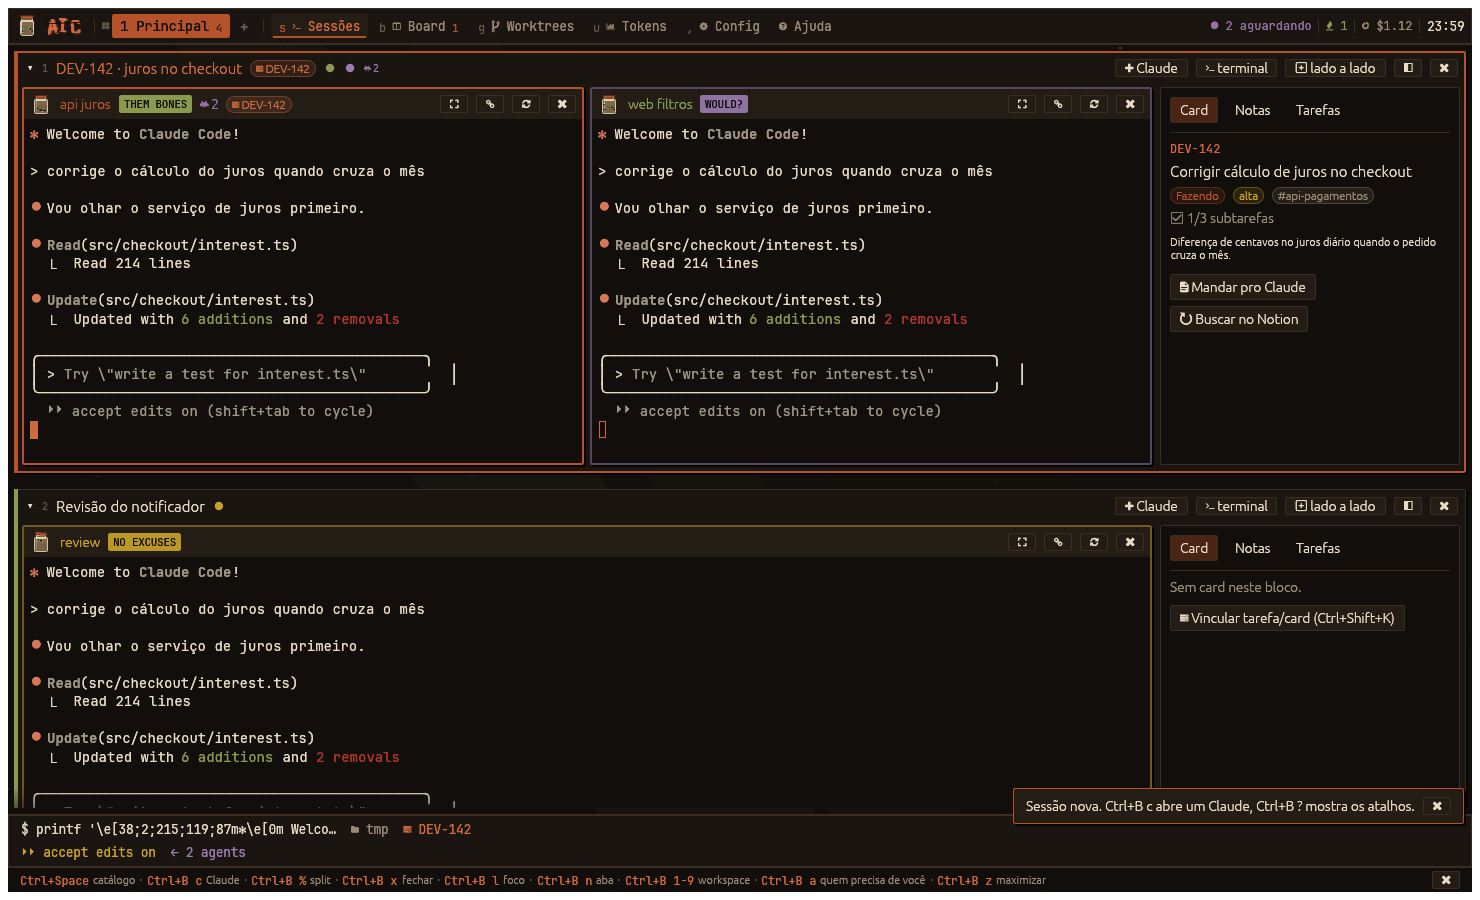
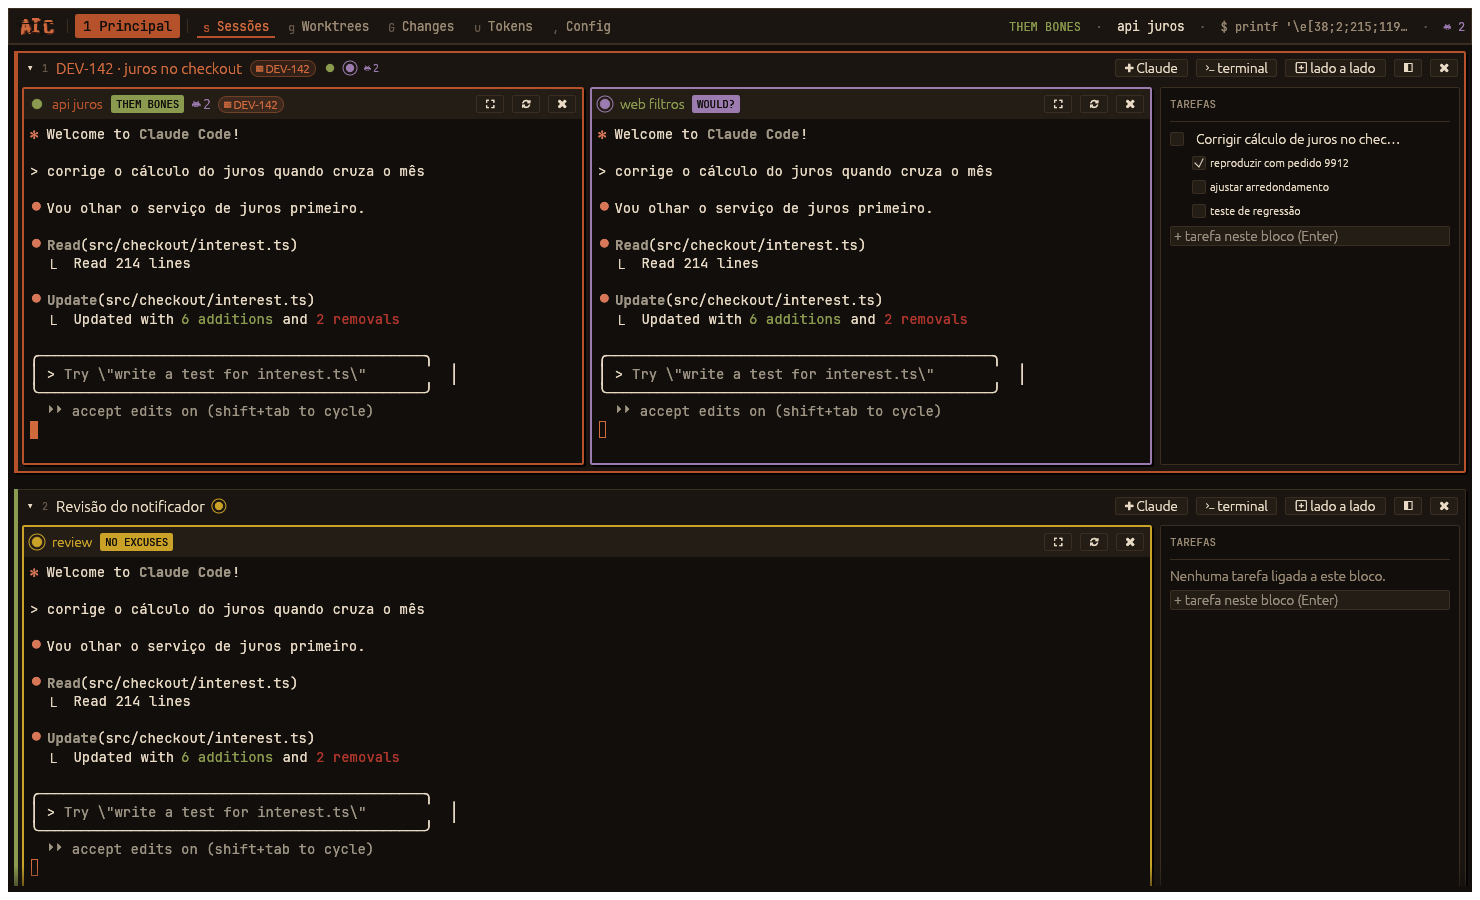
docs: README e manual sem Board/Notion, com notas por sessão e a barra nova
- tiram Board, Notion, Slack, abrir card, mascote, fundo animado, barras de
  baixo e a statusline repassada; entram as notas por sessão (Ctrl+B e), a
  janela em foco na barra de cima, a aba Changes no manual e os módulos atuais
- imagens refeitas pelos snapshots (sai aic-board.png, entra aic-notas.png)
- a Ajuda lista o Ctrl+B e

diff --git a/crates/aic-app/src/ui/topbar.rs b/crates/aic-app/src/ui/topbar.rs
@@ -133,13 +133,13 @@ fn focus_status(app: &App, ui: &mut Ui, theme: &Theme) {
             push(&mut job, &format!("$ {}", widgets::truncate(c.lines().next().unwrap_or(""), 24)), theme.dim, 12.0);
         }
     }
-    if let Some(g) = &rt.git {
-        if let Some(b) = &g.branch {
-            dot(&mut job);
-            push(&mut job, &format!("{I_BRANCH} {}", widgets::truncate(b, 32)), theme.dim, 12.0);
-            if g.dirty > 0 {
-                push(&mut job, &format!(" ±{}", g.dirty), theme.warn, 12.0);
-            }
+    if let Some(g) = &rt.git
+        && let Some(b) = &g.branch
+    {
+        dot(&mut job);
+        push(&mut job, &format!("{I_BRANCH} {}", widgets::truncate(b, 32)), theme.dim, 12.0);
+        if g.dirty > 0 {
+            push(&mut job, &format!(" ±{}", g.dirty), theme.warn, 12.0);
         }
     }
     if let Some(s) = rt.snap.as_ref().filter(|s| s.cost_usd > 0.0) {

diff --git a/crates/aic-app/src/session.rs b/crates/aic-app/src/session.rs
@@ -123,11 +123,11 @@ impl Runtime {
 
     /// Atualiza git (a cada 5s, numa thread) e snapshot da statusline (a cada 2s).
     pub fn refresh(&mut self) {
-        if let Some(rx) = &self.git_rx {
-            if let Ok(st) = rx.try_recv() {
-                self.git = st;
-                self.git_rx = None;
-            }
+        if let Some(rx) = &self.git_rx
+            && let Ok(st) = rx.try_recv()
+        {
+            self.git = st;
+            self.git_rx = None;
         }
         if self.git_rx.is_none() && self.git_at.is_none_or(|t| t.elapsed() > Duration::from_secs(5)) {
             self.git_at = Some(Instant::now());

diff --git a/crates/aic-app/src/ui/help.rs b/crates/aic-app/src/ui/help.rs
@@ -26,6 +26,7 @@ pub fn show(app: &mut App, ui: &mut Ui) {
         for a in [
             Action::NewSession,
             Action::NewShell,
+            Action::ToggleNotes,
             Action::CloseFocused,
             Action::NextView,
             Action::GotoWorkspace(1),

diff --git a/README.md b/README.md
@@ -2,7 +2,7 @@
 
 > down in a hole, up in the stack
 
-Uma central desktop para quem trabalha com vários [Claude Code](https://claude.com/claude-code) ao mesmo tempo. Substitui o tmux: cada contexto de trabalho (um card, um bug, uma ideia) vira um **bloco** com seus terminais, notas, tarefas e o card do Notion, e o AIC mostra de relance quem está trabalhando, quem terminou e quem precisa de você.
+Uma central desktop para quem trabalha com vários [Claude Code](https://claude.com/claude-code) ao mesmo tempo. Substitui o tmux: cada contexto de trabalho (um card, um bug, uma ideia) vira um **bloco** com seus terminais e tarefas, cada sessão tem a sua nota, e o AIC mostra de relance quem está trabalhando, quem terminou e quem precisa de você. Leve e direto: parado, só redesenha duas vezes por segundo; na tela, só o necessário.
 
 Feito em Rust com [egui](https://github.com/emilk/egui). Roda no Linux (X11 e Wayland).
 
@@ -10,28 +10,28 @@ Feito em Rust com [egui](https://github.com/emilk/egui). Roda no Linux (X11 e Wa
 
 ## O que faz
 
-- **Blocos**: terminais (Claude ou shell), notas em Markdown, tarefas e card agrupados por contexto. Quatro visualizações: blocos, abas, foco e grade.
+- **Blocos**: terminais (Claude ou shell) e tarefas agrupados por contexto. Quatro visualizações: blocos, abas, foco e grade.
+- **Notas por sessão**: `Ctrl+B e` abre um painel com a nota em Markdown da sessão em foco, salva sozinha; trocar de sessão troca a nota.
 - **tmux por baixo**: os terminais rodam num servidor tmux próprio. Fechou a janela, o app caiu? Os Claudes continuam rodando e o AIC reconecta ao abrir.
 - **Estado de cada sessão** pelos hooks do Claude Code: trabalhando, esperando você, terminou, morreu. Um atalho pula para a próxima que precisa de você; som e notificação avisam quando termina.
-- **Prefixo estilo tmux** (`Ctrl+B`): `Ctrl+B c` abre um Claude, `Ctrl+B x` fecha o que está em foco, `Ctrl+B n/p` troca de aba, `Ctrl+B 1-9` troca de workspace. Funciona com o terminal focado.
+- **Prefixo estilo tmux** (`Ctrl+B`): `Ctrl+B c` abre um Claude, `Ctrl+B x` fecha o que está em foco, `Ctrl+B e` abre as notas, `Ctrl+B n/p` troca de aba, `Ctrl+B 1-9` troca de workspace. Funciona com o terminal focado.
 - **Catálogo de atalhos** (`Ctrl+Space` ou `Ctrl+B ?`): todos os atalhos agrupados, com o atalho direto e o acorde do prefixo de cada um.
-- **Barra no estilo i3**: workspaces numerados em destaque, abas com a tecla do prefixo e status (quem espera você, custo, limites, relógio) à direita.
+- **Uma barra só, no estilo i3**: workspaces numerados, abas com a tecla do prefixo e, à direita, a janela em foco (estado, modelo, contexto, branch e custo da sessão). Sem barra de status embaixo, e o Claude dentro do AIC roda sem a statusline dele: os dados ficam na barra de cima.
 - **Workspaces como contexto**: a tela mostra só o workspace aceso na barra; pra ver outro, troca de workspace.
-- **Captura rápida**: uma linha vira tarefa, com marcadores (`#repo @hoje !alta ^DEV-142`).
-- **Layne**: um assistente (Claude sempre aberto no painel lateral, aberto pelo ícone no canto da barra) que você usa por texto ou voz pra criar workspaces, anotar tarefas e abrir sessões e cards por você.
-- **Abrir card**: cole o link de um card e o AIC monta o bloco com um worktree e um Claude por repositório.
+- **Captura rápida**: uma linha vira tarefa local, com marcadores (`#repo @hoje !alta ^DEV-142`). As tarefas aparecem no painel Tarefas do bloco e no `aic tasks`.
+- **Layne**: um assistente (Claude sempre aberto no painel lateral, aberto pelo ícone no canto da barra) que você usa por texto ou voz pra criar workspaces, anotar tarefas e abrir sessões por você.
 - **Changes**: arquivos mudados do repo e o diff de cada um, como o Source Control do VS Code (stage, descartar, commit). Segue o terminal em foco.
-- **Board** kanban com tarefas locais e cards do Notion, **worktrees** por card e uma aba de **tokens** com limites da conta e custo por sessão.
+- **Worktrees** por card e uma aba de **Tokens** com limites da conta e custo por sessão.
 - **Módulos**: tudo além dos terminais liga e desliga.
-- **Config com busca**: `Ctrl+B /` e digita (`fonte`, `som`, `notion`…).
-- Visual inspirado no grunge de Seattle: mascote animado (um pote de moscas), nomes de música para os estados, granulação de filme.
+- **Config com busca**: `Ctrl+B /` e digita (`fonte`, `som`, `prefixo`…).
+- Visual sóbrio, com o tema Alice in Chains: a paleta de terra e ferrugem, nomes de música para os estados das sessões e o letreiro AIC.
 
 ![Prefixo armado](docs/aic-prefixo.png)
 
 | | |
 | --- | --- |
-| ![Board](docs/aic-board.png) | ![Captura rápida](docs/aic-captura.png) |
-| Board | Captura rápida |
+| ![Notas da sessão](docs/aic-notas.png) | ![Captura rápida](docs/aic-captura.png) |
+| Notas da sessão | Captura rápida |
 
 ![Tokens](docs/aic-tokens.png)
 
@@ -70,7 +70,7 @@ aic --fresh                  # começa sem reabrir as sessões salvas
 aic add "revisar PR #api !alta @amanha"   # cria tarefa pelo terminal
 aic tasks [--all] [--json]   # lista tarefas
 aic done <id>                # conclui
-aic ws new 'Pessoal' --go    # workspaces, sessões e cards no app aberto (veja Layne)
+aic ws new 'Pessoal' --go    # workspaces e sessões no app aberto (veja Layne)
 aic voz                      # liga/desliga a gravação pro Layne
 ```
 
@@ -83,13 +83,14 @@ Aperte `Ctrl+B`, solte e aperte a tecla. A barra de cima acende enquanto o prefi
 | Tecla | Ação |
 | --- | --- |
 | `c` / `%` | novo Claude / shell ao lado |
+| `e` | notas da sessão em foco (abre já escrevendo; de novo fecha) |
 | `L` / `m` | painel do Layne / falar com ele |
-| `x` | fecha o que está em foco (terminal, bloco vazio, cartão aberto ou a aba) |
+| `x` | fecha o que está em foco (terminal, bloco vazio ou a aba) |
 | `h j k l`, setas | move o foco |
 | `z` | maximiza o terminal |
 | `a` | próxima sessão que precisa de você |
-| `n` / `p` | próxima / anterior aba (Sessões → Board → Worktrees → Tokens → Config → Ajuda) |
-| `s` `b` `g` `u` `,` | vai direto pra aba |
+| `n` / `p` | próxima / anterior aba (Sessões → Worktrees → Changes → Tokens → Config) |
+| `s` `g` `G` `u` `,` | vai direto pra aba (a Ajuda abre no `F1`) |
 | `1`-`9`, `(` `)`, `Tab` | workspace N, anterior/próximo, voltar pro de antes |
 | `w` `W` `$` | lista, novo e renomear workspace |
 | `/` | pesquisar nas configurações |
@@ -124,18 +125,18 @@ corrigir cálculo de juros #api !alta @hoje +sprint ^DEV-142 ~backend
 | `@hoje` `@sexta` `@12/10` | prazo |
 | `!alta` `!!` `!!!` `!baixa` | prioridade |
 | `+workspace` | workspace |
-| `^DEV-142` | card do Notion |
+| `^DEV-142` | chave do card (vira o começo do nome da branch) |
 | `~tag` | etiqueta livre |
 
 Dentro de uma sessão aberta pelo AIC, `/aic:tarefa texto` cria a tarefa já vinculada à sessão.
 
-### Abrir card
+### Notas da sessão
 
-`Ctrl+Shift+J`, cole o link do card. O AIC cria um worktree por repositório (`<repo>.worktrees/<branch>`, branch com o nome do card), abre um Claude em cada, um shell e as notas. O plugin `aic` dá ao Claude as skills para puxar o contexto do card e da thread do Slack, quebrar o trabalho entre repositórios e fechar a entrega.
+`Ctrl+B e` (ou `Ctrl+Shift+E`) abre à direita a nota da sessão em foco, já com o cursor nela. É Markdown, salvo sozinho a cada tecla junto da sessão. Trocar de sessão troca a nota; `Esc` devolve o teclado pro terminal; `Ctrl+B e` de novo fecha o painel.
 
 ### Layne (assistente)
 
-O Layne é um Claude sempre aberto num painel à direita (`Ctrl+B L` ou `Ctrl+Alt+L`). Você pede em português, digitando ou falando, e ele mexe no AIC por você: cria workspaces, anota tarefas, abre sessões do Claude num repo ou worktree com a primeira mensagem já escrita, abre um card do Notion montando o bloco.
+O Layne é um Claude sempre aberto num painel à direita (`Ctrl+B L` ou `Ctrl+Alt+L`). Você pede em português, digitando ou falando, e ele mexe no AIC por você: cria workspaces, anota tarefas, abre sessões do Claude num repo ou worktree com a primeira mensagem já escrita.
 
 > "cria um workspace pessoal e anota pra eu lembrar: renovar a CNH sexta, comprar ração"
 > "abre uma sessão com o card DEV-142 no projeto api"
@@ -150,7 +151,6 @@ aic ws new 'Pessoal' --go              # cria workspace (e vai pra ele)
 aic ws go pess                          # troca (nome ou começo)
 aic add --ws Pessoal 'renovar CNH @sexta'
 aic session --repo api --branch fix/juros -- 'corrija o cálculo de juros'
-aic card DEV-142 --auto --repos api     # monta o bloco sem perguntar
 aic sessions | aic ws ls | aic repos    # o que está aberto
 aic layne --send 'o que tenho pra hoje?'
 ```
@@ -165,7 +165,7 @@ Ao terminar uma sessão o AIC toca um som (e, se quiser, outro quando ela pede p
 
 ### Módulos
 
-Em Config → Módulos: tmux, workspaces, Layne, abrir card, board, notas, worktrees, tokens, Notion, Slack, barra de status, dicas de atalho, mascote, fundo animado, som e notificações.
+Em Config → Módulos: tmux, workspaces, Layne, tarefas, notas, worktrees, Changes, tokens, catálogo de atalhos, som e notificações.
 
 O manual completo, com todos os atalhos, fica dentro do app (`F1`) e em [`docs/MANUAL.md`](docs/MANUAL.md).
 
@@ -175,8 +175,8 @@ O manual completo, com todos os atalhos, fica dentro do app (`F1`) e em [`docs/M
 | --- | --- |
 | `~/.config/aic/config.toml` | preferências (visualização, prefixo, fonte, módulos, sons…). Tudo tem padrão; o app grava nele pela tela de Config. |
 | `~/.config/aic/keybinds.toml` | seus atalhos (`acao = "Ctrl+Shift+N"`, vazio desliga) e as teclas do prefixo (tabela `[prefix]`) |
-| `~/.config/aic/.env` | tokens e ids das integrações (veja abaixo) |
-| `~/.local/share/aic/` | banco de dados, sons, plugin, tmux.conf |
+| `~/.config/aic/.env` | pastas de repositórios e chaves da transcrição (veja abaixo) |
+| `~/.local/share/aic/` | banco de dados (sessões, notas, tarefas), sons, plugin, tmux.conf |
 | `~/.local/state/aic/` | eventos dos hooks e snapshots da statusline |
 
 ### `.env`
@@ -191,32 +191,26 @@ chmod 600 ~/.config/aic/.env
 
 | Variável | Para quê |
 | --- | --- |
-| `NOTION_TOKEN` | token de integração do Notion (só para o conector "Token") |
-| `AIC_NOTION_TASKS_DB` | id da database de cards |
-| `AIC_NOTION_SPRINTS_DB` | id da database de sprints |
-| `AIC_NOTION_ME` | você no Notion (e-mail ou id), para "só meus cards" |
-| `AIC_NOTION_KEY_PREFIX` | prefixo da chave dos cards (ex: `DEV`) |
 | `AIC_REPOS_DIRS` | pastas com repositórios, separadas por `:` (aceita `~`) |
-| `SLACK_WORKSPACE_URL` | URL do workspace do Slack |
+| `OPENAI_API_KEY` / `GROQ_API_KEY` | transcrição de voz do Layne por API |
 
 O arquivo é lido ao abrir o app; variáveis que já estão no ambiente têm prioridade sobre ele, e ele tem prioridade sobre o `config.toml`.
-
-Notion e Slack funcionam de dois jeitos: pelo **conector Claude** (padrão: usa os conectores já ligados na sua conta do Claude, sem token) ou pelo **conector Token** (API direta do Notion, mais rápido).
 
 ## Desenvolvimento
 
 ```bash
 cargo run -p aic-app                         # roda do código
+cargo run --release -- --fresh               # sem reabrir as sessões salvas
 cargo test --workspace                       # testes
 cargo test -p aic-app --test snapshots       # renderiza as telas sem janela em target/snapshots/
 ```
 
-Estrutura: `crates/aic-core` (modelo, store SQLite, captura rápida, git, Notion, uso), `crates/aic-term` (terminal embutido), `crates/aic-app` (UI, visual em `brand.rs`, CLI), `claude/` (plugin do Claude Code), `docs/MANUAL.md` (o manual que aparece no app).
+Estrutura: `crates/aic-core` (modelo, store SQLite, captura rápida, git, uso), `crates/aic-term` (terminal embutido), `crates/aic-app` (UI, visual em `brand.rs`, CLI), `claude/` (plugin do Claude Code), `docs/MANUAL.md` (o manual que aparece no app).
 
 ## Créditos
 
 - O terminal embutido (`crates/aic-term`) é derivado do [egui_term](https://github.com/Harzu/egui_term) (MIT, © 2024 Ilia Shvyrialkin; licença em [`crates/aic-term/LICENSE-egui_term`](crates/aic-term/LICENSE-egui_term)), sobre o [alacritty_terminal](https://github.com/alacritty/alacritty).
-- O visual do AIC é só **inspirado** no grunge de Seattle e em Alice in Chains: desenho, mascote e sons sintetizados são originais, sem logos, capas ou gravações da banda. Não há relação com a banda.
+- O visual do AIC é só **inspirado** no grunge de Seattle e em Alice in Chains: desenho, ícone e sons sintetizados são originais, sem logos, capas ou gravações da banda. Não há relação com a banda.
 - Fonte recomendada: [JetBrainsMono Nerd Font](https://www.nerdfonts.com/) (OFL).
 
 ## Licença
